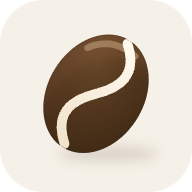
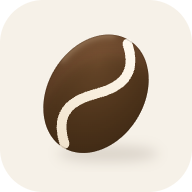
v1.3.3：高光改为贴边轮廓光，与中缝完全分区，消除叠压

Changed region(s): [[0.3125, 0.1562, 0.6562, 0.3125], [0.6875, 0.2812, 0.7188, 0.3125]]

diff --git a/js/ui.js b/js/ui.js
@@ -5,13 +5,14 @@ import { db } from './db.js';
 let _bmSeq = 0;
 export function beanMark(size = 88) {
   const s = ++_bmSeq;
-  const g = 'bmg' + s, f = 'bmf' + s, c = 'bmc' + s;
+  const g = 'bmg' + s, f = 'bmf' + s, m = 'bmm' + s, c = 'bmc' + s;
   return `<svg width="${size}" height="${size}" viewBox="0 0 512 512" xmlns="http://www.w3.org/2000/svg" aria-hidden="true" style="flex-shrink:0;">
   <defs>
     <radialGradient id="${g}" cx="0.36" cy="0.30" r="1.0">
       <stop offset="0" stop-color="#7E5636"/><stop offset="0.5" stop-color="#5C3D24"/><stop offset="1" stop-color="#3E2917"/>
     </radialGradient>
     <filter id="${f}" x="-60%" y="-60%" width="220%" height="220%"><feGaussianBlur stdDeviation="16"/></filter>
+    <filter id="${m}" x="-40%" y="-40%" width="180%" height="180%"><feGaussianBlur stdDeviation="8"/></filter>
     <clipPath id="${c}"><ellipse cx="256" cy="250" rx="128" ry="168"/></clipPath>
   </defs>
   <ellipse cx="288" cy="410" rx="134" ry="22" fill="#3E2A1A" opacity="0.15" filter="url(#${f})"/>
@@ -19,7 +20,7 @@ export function beanMark(size = 88) {
     <ellipse cx="256" cy="250" rx="128" ry="168" fill="url(#${g})"/>
     <g clip-path="url(#${c})">
       <ellipse cx="304" cy="316" rx="150" ry="192" fill="#241203" opacity="0.28" filter="url(#${f})"/>
-      <path d="M 172 158 C 196 118 244 100 292 110" fill="none" stroke="#EACD9F" stroke-opacity="0.38" stroke-width="18" stroke-linecap="round"/>
+      <path d="M 130 221 A 128 168 0 0 1 212 92" fill="none" stroke="#FFE9C4" stroke-opacity="0.30" stroke-width="16" stroke-linecap="round" filter="url(#${m})"/>
     </g>
     <path d="M 256 92 C 314 140 314 190 256 250 C 198 310 198 360 256 408" fill="none" stroke="#F6EEDA" stroke-width="26" stroke-linecap="round"/>
     <ellipse cx="256" cy="250" rx="127" ry="167" fill="none" stroke="#26150A" stroke-opacity="0.15" stroke-width="3"/>

diff --git a/js/views/settings.js b/js/views/settings.js
@@ -65,7 +65,7 @@ export async function render(view) {
     <div class="set-group">
       <div class="group-label">关于</div>
       <div class="card" style="margin-bottom:0;">
-        <div class="kv"><span class="k">版本</span><span class="v">鉴豆 v1.3.2</span></div>
+        <div class="kv"><span class="k">版本</span><span class="v">鉴豆 v1.3.3</span></div>
         <div class="kv"><span class="k">本机数据</span><span class="v">${beanCount} 份档案 · ${txCount} 笔流水</span></div>
         <div class="kv"><span class="k">数据存储</span><span class="v">全部在本机（IndexedDB）</span></div>
         <div class="kv"><span class="k">隐私</span><span class="v">无服务器、无账号、无追踪</span></div>

diff --git a/sw.js b/sw.js
@@ -1,5 +1,5 @@
 /* 鉴豆 Service Worker — 离线缓存 */
-const VERSION = 'jiandou-v1.3.2';
+const VERSION = 'jiandou-v1.3.3';
 
 const PRECACHE = [
   './',
